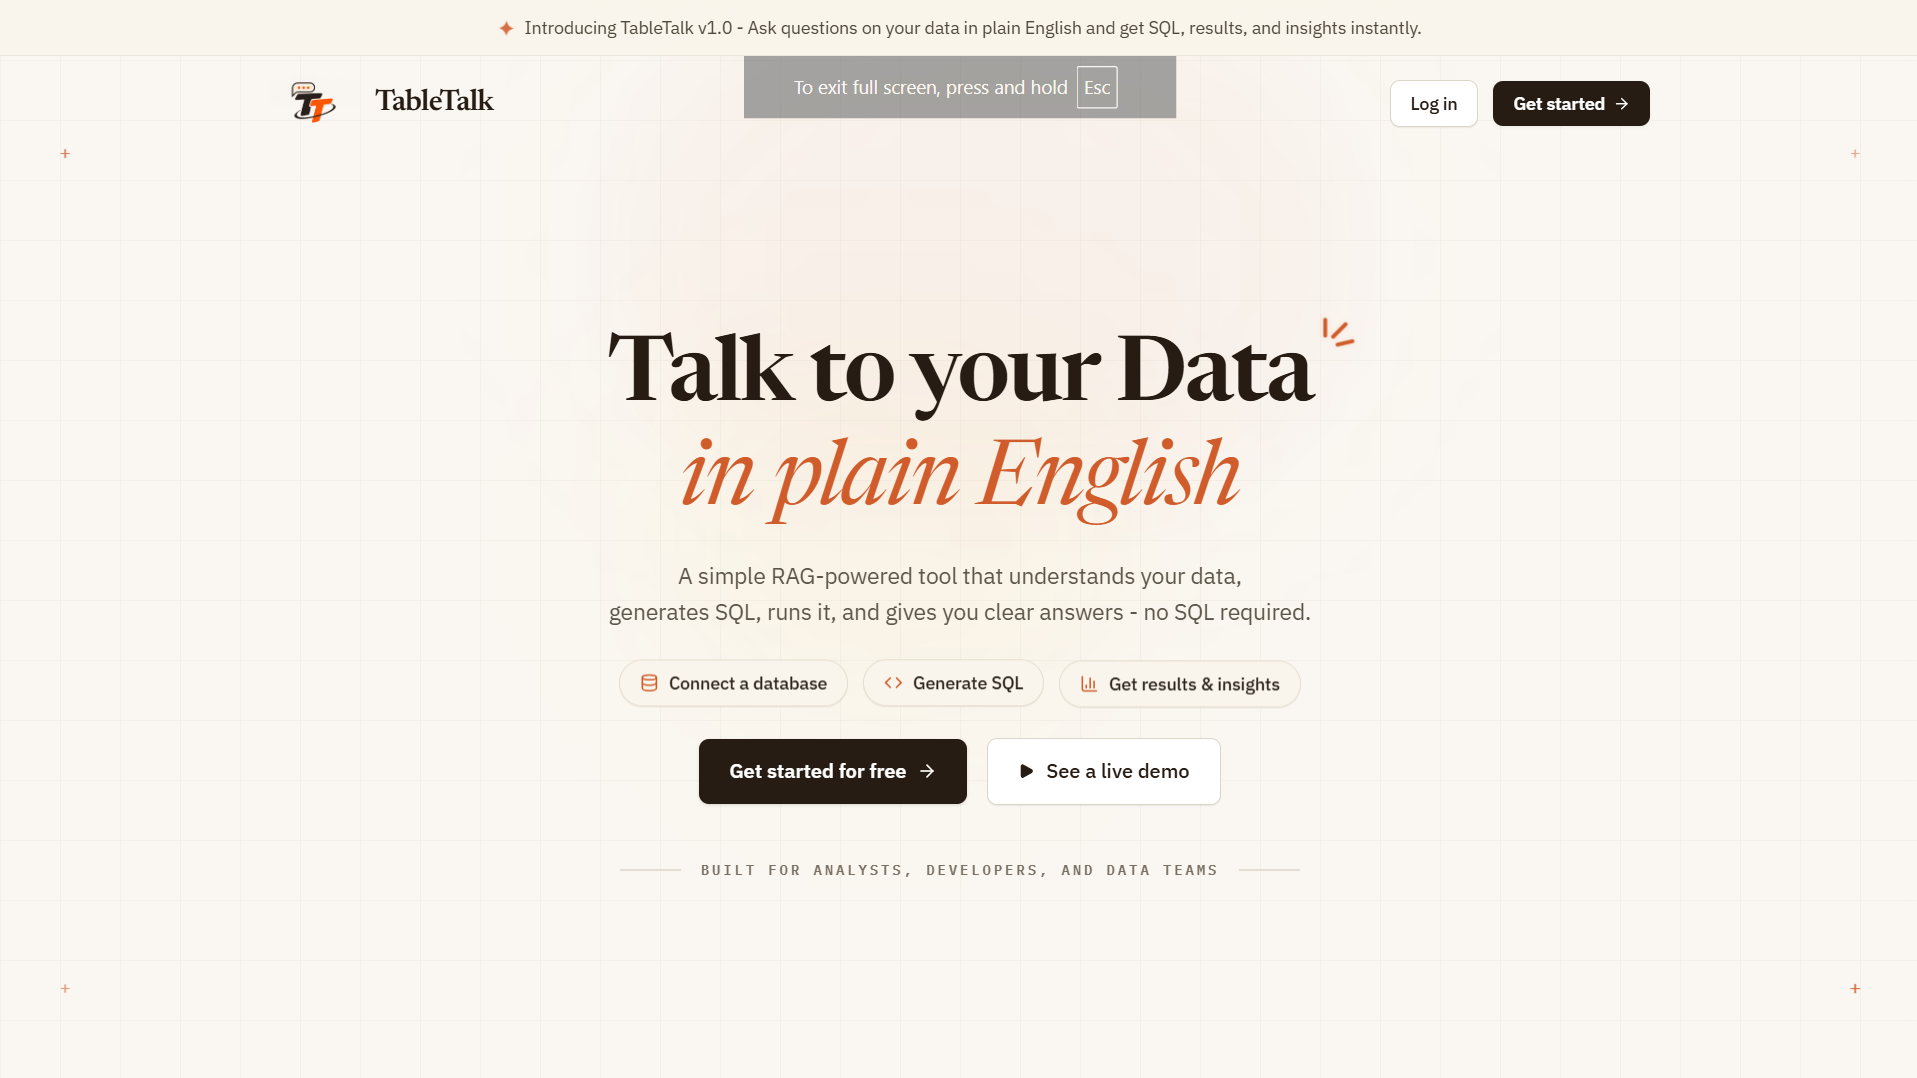
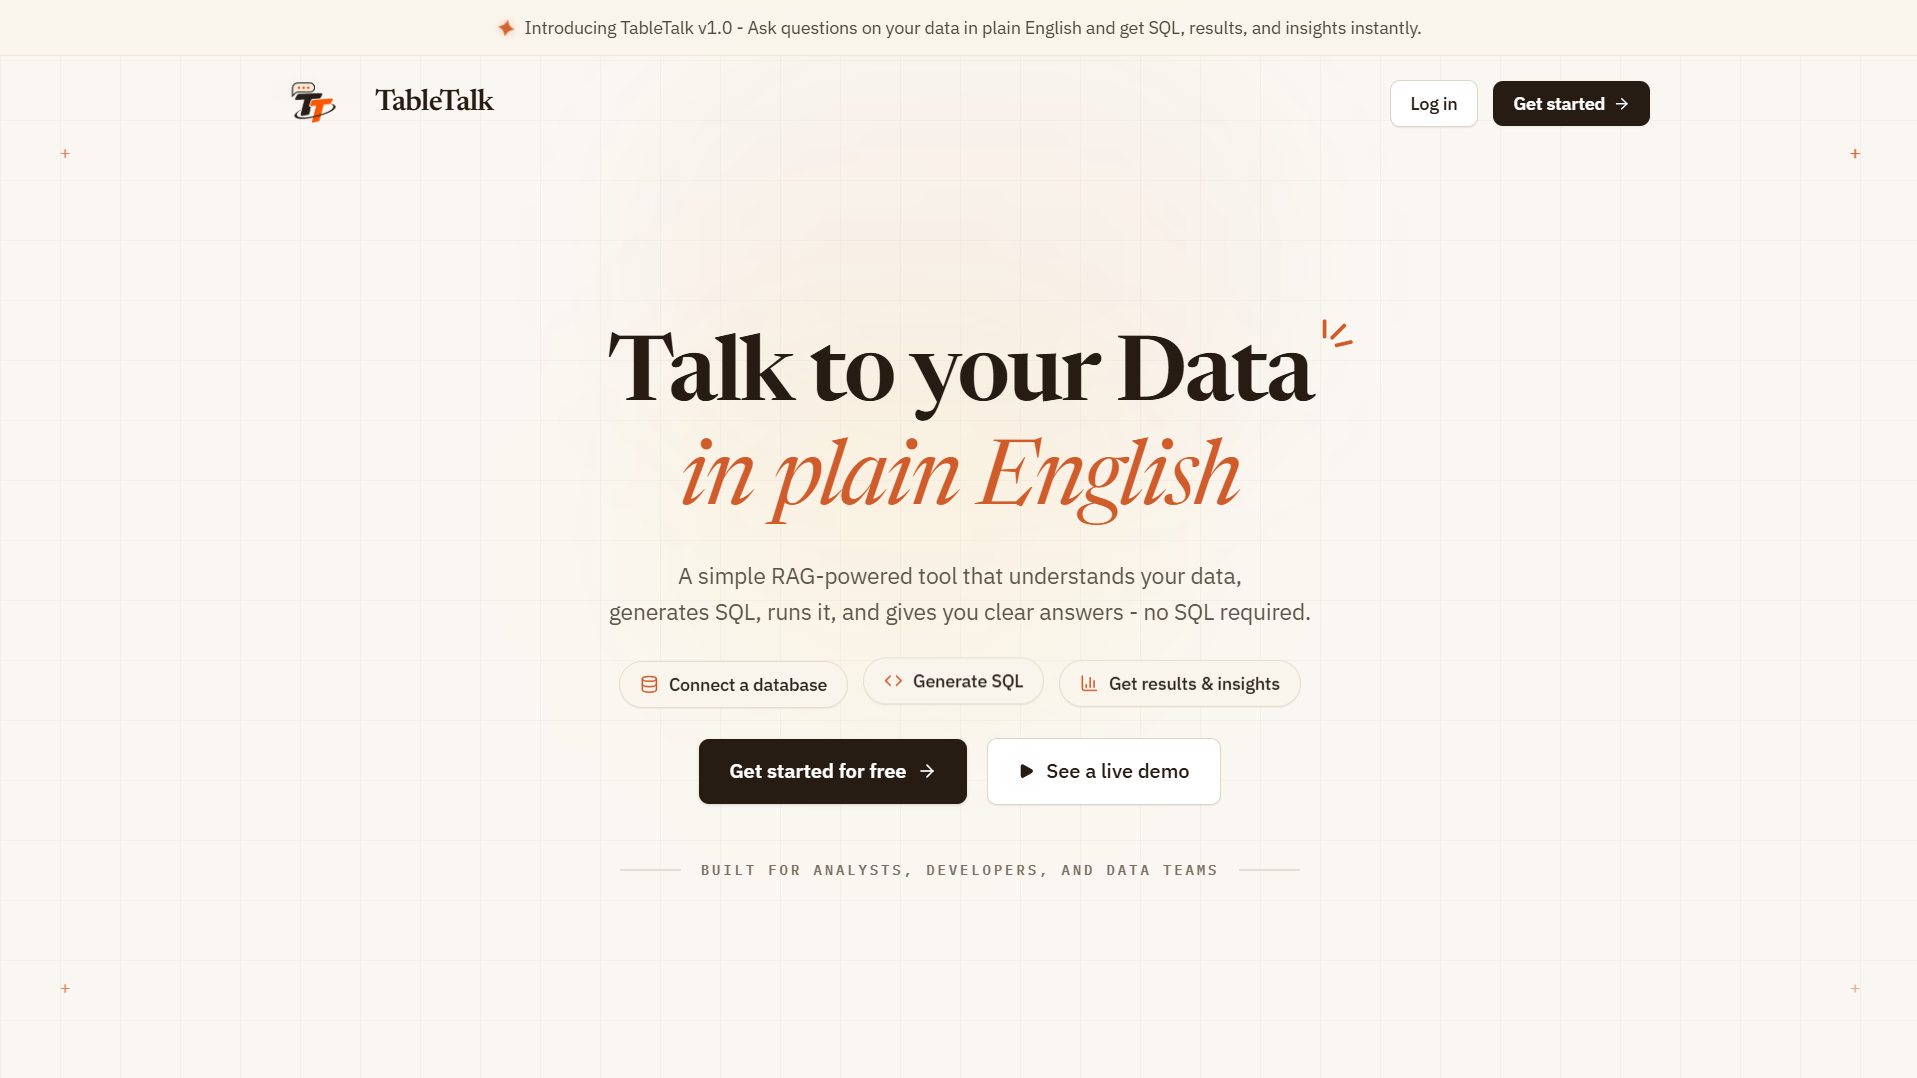
achievements section completed

diff --git a/frontend/src/components/Achievements/AchievementCard.jsx b/frontend/src/components/Achievements/AchievementCard.jsx
@@ -1,0 +1,89 @@
+import React, { memo } from 'react';
+import { MapPin, Calendar } from 'lucide-react';
+
+const AchievementCard = memo(({ item }) => {
+  return (
+    <div className="group rounded-2xl bg-[#0c0c10]/95 border border-zinc-800/80 hover:border-[#6bee18] transition-all duration-300 p-4 sm:p-5 flex flex-col justify-between shadow-xl hover:shadow-[0_0_20px_rgba(107,238,24,0.12)] select-none min-h-[450px] sm:min-h-[470px] xl:min-h-[485px] h-full">
+      {/* Top Section: Image & Event Meta */}
+      <div className="flex flex-col">
+        {/* Primary Image with uniform 16/10 aspect ratio */}
+        <div className="relative aspect-[16/10] w-full rounded-xl overflow-hidden bg-zinc-950 border border-zinc-800/60 group-hover:border-zinc-700 transition-colors shrink-0">
+          <img
+            src={item.image}
+            alt={item.title}
+            loading="lazy"
+            decoding="async"
+            className="w-full h-full object-cover transition-transform duration-500 group-hover:scale-105"
+          />
+          {/* Subtle bottom vignette */}
+          <div className="absolute inset-0 bg-gradient-to-t from-black/50 via-transparent to-transparent pointer-events-none" />
+        </div>
+
+        {/* Content Section: Uniform vertical alignment across cards */}
+        <div className="mt-3.5 flex flex-col">
+          {/* Headline (locked height for 1 or 2 lines) */}
+          <div className="h-[48px] xl:h-[52px] flex items-start overflow-hidden">
+            <h3 className="text-white font-extrabold text-[15px] sm:text-base xl:text-[17px] leading-snug group-hover:text-[#6bee18] transition-colors line-clamp-2">
+              {item.headline}
+            </h3>
+          </div>
+
+          {/* Subtitle / Event name (uniform height) */}
+          <p className="text-zinc-300 text-xs sm:text-[13px] font-medium mt-1 truncate h-[20px]">
+            {item.title}
+          </p>
+
+          {/* Meta Row: Location & Date (uniform alignment across cards) */}
+          <div className="flex items-center justify-between text-xs sm:text-[12.5px] text-zinc-300 mt-2.5 h-[24px] overflow-hidden">
+            <span className="flex items-center gap-1.5 truncate max-w-[68%]">
+              <MapPin className="w-3.5 h-3.5 text-[#6bee18] shrink-0" />
+              <span className="truncate">{item.location}</span>
+            </span>
+            <span className="flex items-center gap-1.5 shrink-0 text-zinc-400 font-medium">
+              <Calendar className="w-3.5 h-3.5 text-[#6bee18] shrink-0" />
+              <span>{item.date}</span>
+            </span>
+          </div>
+        </div>
+      </div>
+
+      {/* Bottom Section: Team Members with LinkedIn Redirect Links (all IDs guaranteed visible) */}
+      <div className="pt-3.5 border-t border-zinc-800/80 mt-auto">
+        <div className="flex items-start gap-2 min-h-[96px] xl:min-h-[105px]">
+          <span className="text-[10px] sm:text-[11px] font-bold uppercase tracking-wider text-zinc-400 pt-1 shrink-0">
+            TEAM:
+          </span>
+
+          <div className="flex flex-wrap items-center gap-1 sm:gap-1.5 flex-1 justify-start">
+            {item.team.map((member, i) => {
+              const profileUrl = member.linkedin || member.LinkedIn || member.github || '#';
+              return (
+                <a
+                  key={i}
+                  href={profileUrl}
+                  target="_blank"
+                  rel="noopener noreferrer"
+                  className="px-2 py-0.5 rounded-md bg-zinc-900/90 border border-zinc-800 hover:border-zinc-600 hover:bg-zinc-800 text-zinc-200 hover:text-white text-[11px] sm:text-xs font-medium inline-flex items-center gap-1.5 transition-colors shrink-0 cursor-pointer shadow-sm"
+                  title={`View ${member.name} on LinkedIn`}
+                >
+                  {/* LinkedIn SVG Icon */}
+                  <svg
+                    className="w-2.5 h-2.5 sm:w-3 sm:h-3 fill-[#0A66C2] shrink-0"
+                    viewBox="0 0 24 24"
+                  >
+                    <path d="M19 3a2 2 0 0 1 2 2v14a2 2 0 0 1-2 2H5a2 2 0 0 1-2-2V5a2 2 0 0 1 2-2h14m-.5 15.5v-5.3a3.26 3.26 0 0 0-3.26-3.26c-.85 0-1.84.52-2.28 1.3v-1.11h-2.79v8.37h2.79v-4.93c0-.77.62-1.4 1.39-1.4a1.4 1.4 0 0 1 1.4 1.4v4.93h2.75M6.46 10.9v8.37H9.2V10.9H6.46M7.83 6.2a1.6 1.6 0 0 0-1.6 1.6 1.6 1.6 0 0 0 1.6 1.6 1.6 1.6 0 0 0 1.6-1.6 1.6 1.6 0 0 0-1.6-1.6Z" />
+                  </svg>
+                  <span>{member.name}</span>
+                </a>
+              );
+            })}
+          </div>
+        </div>
+      </div>
+    </div>
+  );
+});
+
+AchievementCard.displayName = 'AchievementCard';
+
+export default AchievementCard;

diff --git a/frontend/src/components/Achievements/achievementsData.js b/frontend/src/components/Achievements/achievementsData.js
@@ -1,0 +1,70 @@
+// Primary images provided in assets/Achivements: sih, pbl2, dkte, pbl1
+import sihImg from '../../assets/Achivements/sih.jpeg';
+import pbl2Img from '../../assets/Achivements/pbl2.jpeg';
+import dkteImg from '../../assets/Achivements/dkte.jpeg';
+import pbl1Img from '../../assets/Achivements/pbl1.jpeg';
+
+export const ACHIEVEMENTS_DATA = [
+  {
+    id: 'sih-2025',
+    award: 'National Finalist',
+    headline: 'Finalist - PSID: SIH25018',
+    title: 'Smart India Hackathon 2025',
+    location: 'BFCET, Bathinda, Punjab',
+    date: 'Dec 2024',
+    image: sihImg,
+    team: [
+      { name: 'Krish Makadiya', linkedin: 'https://www.linkedin.com/in/krish-makadiya/' },
+      { name: 'Raiyan Chandle', linkedin: 'https://www.linkedin.com/in/raiyan-chandle/' },
+      { name: 'Shreya Patil', linkedin: 'https://www.linkedin.com/in/patil-shreya789/' },
+      { name: 'Yasin Shaikh', linkedin: 'https://www.linkedin.com/in/yasinshaikh9030/' },
+      { name: 'Om Ratnaparkhe', linkedin: 'https://www.linkedin.com/in/om-ratnaparkhe-97709120b/' },
+      { name: 'Aftab Makandar', linkedin: 'https://www.linkedin.com/in/aftabalam-makandar-024ba925b/' }
+    ]
+  },
+  {
+    id: 'pbl-2',
+    award: '2nd Prize Winner',
+    headline: 'Got 2nd Prize - PBL Sem VII',
+    title: 'Project-Based Learning (PBL)',
+    location: 'KITCOE, Kolhapur, MH',
+    date: 'Oct 2024',
+    image: pbl2Img,
+    team: [
+      { name: 'Raiyan Chandle', linkedin: 'https://www.linkedin.com/in/raiyan-chandle/' },
+      { name: 'Shreya Patil', linkedin: 'https://www.linkedin.com/in/patil-shreya789/' },
+      { name: 'Yasin Shaikh', linkedin: 'https://www.linkedin.com/in/yasinshaikh9030/' },
+      { name: 'Aniket Yadav', linkedin: 'https://www.linkedin.com/in/aniket-yadav-jan2005/' }
+    ]
+  },
+  {
+    id: 'dkte-hackathon',
+    award: 'Best UI Winner',
+    headline: 'Got Best UI Award - Hackathon',
+    title: 'Prarambh Mini Hackathon',
+    location: 'DKTE, Ichalkaranji, MH',
+    date: 'Aug 2025',
+    image: dkteImg,
+    team: [
+      { name: 'Krish Makadiya', linkedin: 'https://www.linkedin.com/in/krish-makadiya/' },
+      { name: 'Raiyan Chandle', linkedin: 'https://www.linkedin.com/in/raiyan-chandle/' },
+      { name: 'Yasin Shaikh', linkedin: 'https://www.linkedin.com/in/yasinshaikh9030/' },
+      { name: 'Om Ratnaparkhe', linkedin: 'https://www.linkedin.com/in/om-ratnaparkhe-97709120b/' }
+    ]
+  },
+  {
+    id: 'pbl-1',
+    award: '1st Prize Winner',
+    headline: 'Winner - PBL Sem   V',
+    title: 'Project-Based Learning (PBL) I',
+    location: 'Kolhapur, MH',
+    date: 'Apr 2024',
+    image: pbl1Img,
+    team: [
+      { name: 'Raiyan Chandle', linkedin: 'https://www.linkedin.com/in/raiyan-chandle/' },
+      { name: 'Yasin Shaikh', linkedin: 'https://www.linkedin.com/in/yasinshaikh9030/' },
+      { name: 'Aniket Yadav', linkedin: 'https://www.linkedin.com/in/aniket-yadav-jan2005/' },
+      { name: 'Om Ratnaparkhe', linkedin: 'https://www.linkedin.com/in/om-ratnaparkhe-97709120b/' }
+    ]
+  }
+];

diff --git a/frontend/src/pages/Achievements.jsx b/frontend/src/pages/Achievements.jsx
@@ -1,0 +1,28 @@
+import React from 'react';
+import { ACHIEVEMENTS_DATA } from '../components/Achievements/achievementsData';
+import AchievementCard from '../components/Achievements/AchievementCard';
+
+export default function Achievements() {
+  return (
+    <section
+      id="achievements"
+      className="min-h-screen w-full bg-black flex flex-col justify-center items-center select-none font-sans px-4 sm:px-6 md:px-10 lg:px-12 py-16"
+    >
+      <div className="w-full max-w-[1600px] 2xl:max-w-[1720px] mx-auto flex flex-col justify-center">
+        {/* Section Heading */}
+        <div className="mb-10 sm:mb-12 w-full text-center">
+          <h2 className="text-5xl md:text-7xl font-bold tracking-tight text-white select-none">
+            Achievements
+          </h2>
+        </div>
+
+        {/* Minimal 4-Card Responsive Grid */}
+        <div className="w-full grid grid-cols-1 sm:grid-cols-2 lg:grid-cols-4 gap-5 xl:gap-6">
+          {ACHIEVEMENTS_DATA.map((item) => (
+            <AchievementCard key={item.id} item={item} />
+          ))}
+        </div>
+      </div>
+    </section>
+  );
+}

diff --git a/frontend/src/App.jsx b/frontend/src/App.jsx
@@ -3,6 +3,7 @@ import Hero from './pages/Hero';
 import About from './pages/About';
 import Skills from './pages/Skills';
 import Projects from './pages/Projects';
+import Achievements from './pages/Achievements';
 import Contact from './pages/Contact';
 import { Pointer } from './components/Pointer';
 
@@ -21,6 +22,7 @@ function App() {
 
         {/* Separated sections */}
         <Projects />
+        <Achievements />
         <Contact />
       </main>
     </div>

diff --git a/frontend/src/components/Projects/projectsData.js b/frontend/src/components/Projects/projectsData.js
@@ -62,8 +62,8 @@ export const PROJECTS_DATA = [
       'Auth & Security': ['JWT in httpOnly cookies', 'bcrypt'],
       'Streaming': ['Server-Sent Events (SSE)']
     },
-    github: 'https://github.com/RaiyanChandle',
-    liveDemo: 'https://github.com/RaiyanChandle'
+    github: 'https://github.com/RaiyanChandle/TableTalk',
+    liveDemo: 'https://tabletalk.r2cstack.site/'
   },
   {
     id: 'hirehunt',
